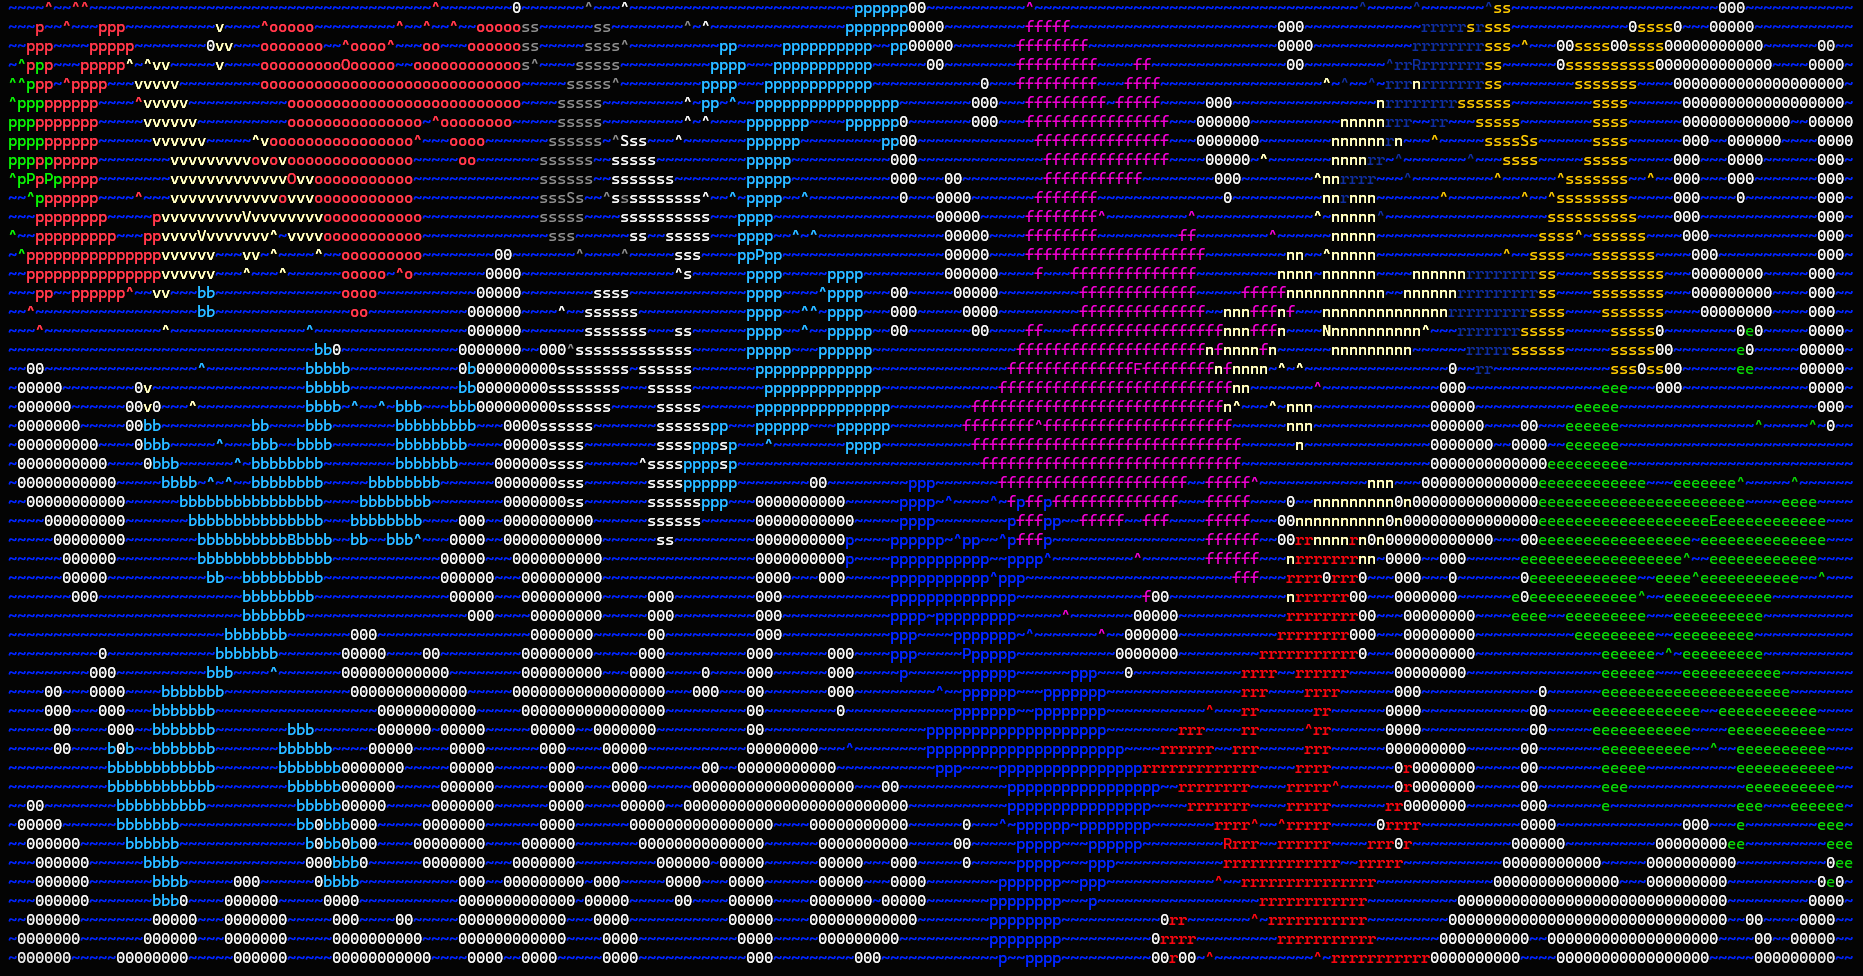
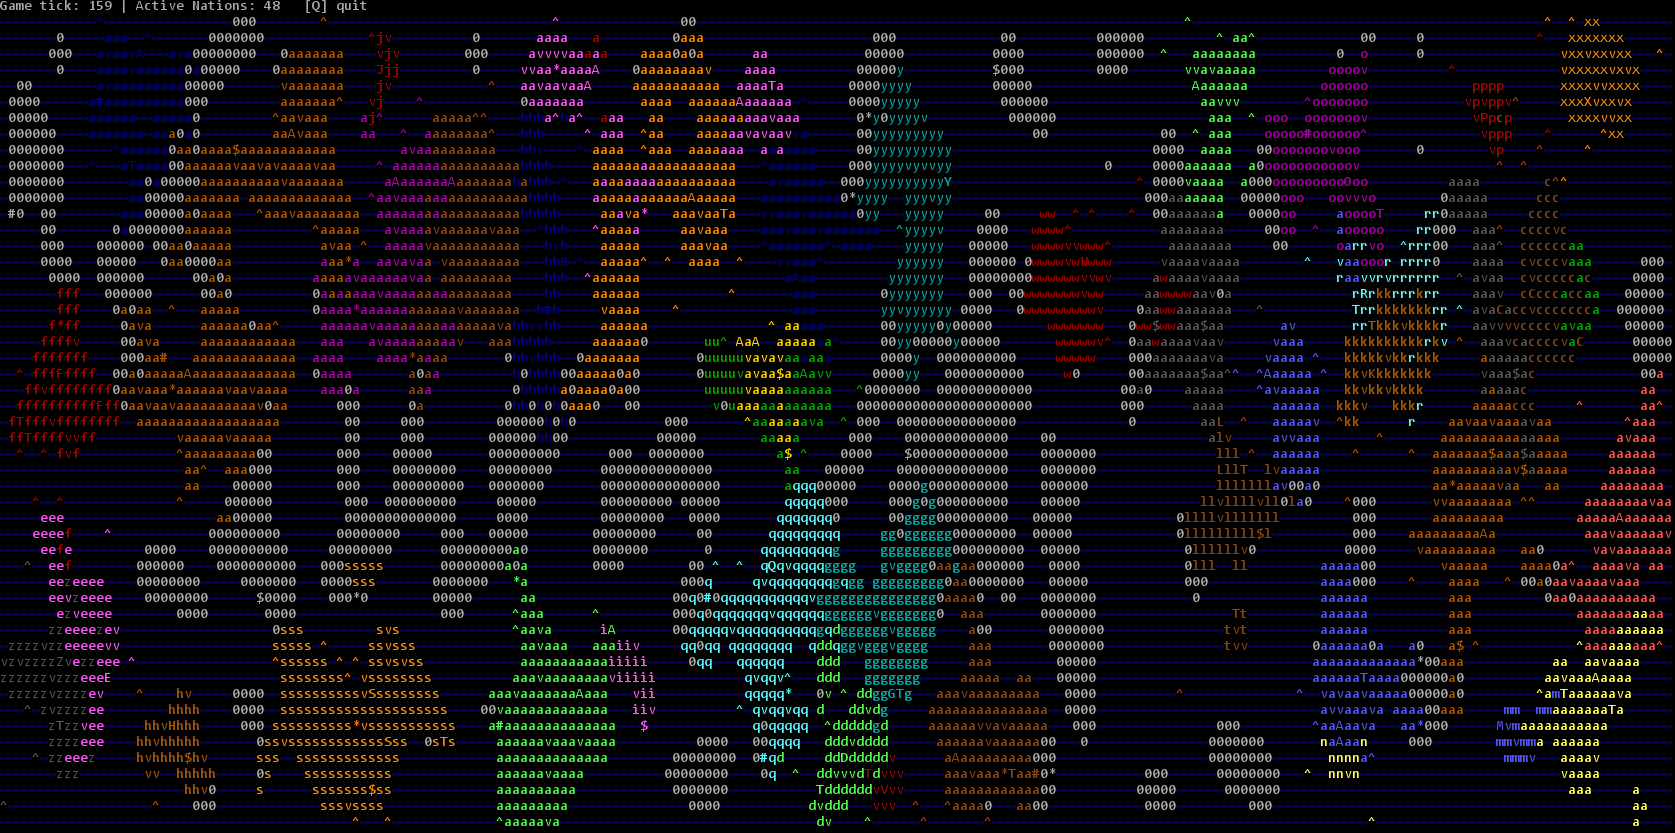
docs: update README for Lanterna

diff --git a/README.md b/README.md
@@ -1,6 +1,7 @@
 # Age of Cells
 
-An interactive, CLI-based geopolitical world simulation engine written in Java. Age of Cells models emergent historic dynamics on a grid, including territorial expansion, economic resource gathering, and state-driven diplomacy with master-vassal hierarchies and rebellion mechanics.
+An interactive, geopolitical world simulation engine written in Java with **Lanterna**.
+Age of Cells models emergent historic dynamics on a grid, including territorial expansion, economic resource gathering, and state-driven diplomacy with master-vassal hierarchies and rebellion mechanics.
 
 <p align="center">
   <img src="assets/preview.png" alt="Age of Cells Simulation Preview" width="80%">
@@ -15,6 +16,15 @@ An interactive, CLI-based geopolitical world simulation engine written in Java. 
 * **Diplomacy:** Peace, War and temporary Unions. Capital capture can turn nations into vassals.
 * **Vassal System:** Masters collect tribute. Vassals have Liberty Desire and can rebel.
 * **Economy:** Income from land, capitals, ships and resources.
+* **Lanterna TUI:** Smooth terminal rendering with colors and keyboard controls.
+
+---
+
+## Controls
+
+| Key | Action              |
+|-----|---------------------|
+| `Q` | Quit the simulation |
 
 ---
 
@@ -46,35 +56,36 @@ An interactive, CLI-based geopolitical world simulation engine written in Java. 
 AgeOfCells/
 ├── src/
 │   └── main/
-│       └── java/
-│           └── com/
-│               └── aoc/
-│                   ├── Launcher.java
-│                   ├── World.java
-│                   ├── GameLoop.java
-│                   ├── cell/
-│                   │   ├── Cell.java
-│                   │   ├── CellType.java
-│                   │   └── TerrainType.java
-│                   ├── diplomacy/
-│                   │   └── DiplomacyManager.java
-│                   ├── map/
-│                   │   └── MapGenerator.java
-│                   ├── nation/
-│                   │   ├── Nation.java
-│                   │   ├── NationType.java
-│                   │   └── SituationState.java
-│                   ├── render/
-│                   │   └── WorldRenderer.java
-│                   ├── config/
-│                   │   └── Config.java
-│                   └── util/
-│                       ├── Color.java
-│                       ├── Element.java
-│                       ├── Screen.java
-│                       ├── Time.java
-│                       ├── Loader.java
-│                       └── Rng.java
+│       ├── java/
+│       │   └── com/
+│       │       └── aoc/
+│       │           ├── Launcher.java
+│       │           ├── World.java
+│       │           ├── GameLoop.java
+│       │           ├── cell/
+│       │           │   ├── Cell.java
+│       │           │   ├── CellType.java
+│       │           │   └── TerrainType.java
+│       │           ├── diplomacy/
+│       │           │   └── DiplomacyManager.java
+│       │           ├── map/
+│       │           │   └── MapGenerator.java
+│       │           ├── nation/
+│       │           │   ├── Nation.java
+│       │           │   ├── NationGenerator.java
+│       │           │   └── SituationState.java
+│       │           ├── render/
+│       │           │   └── WorldRenderer.java
+│       │           ├── config/
+│       │           │   └── Config.java
+│       │           └── util/
+│       │               ├── Color.java
+│       │               ├── Element.java
+│       │               ├── Time.java
+│       │               ├── Loader.java
+│       │               └── Rng.java
+│       └── resources/
+│           └── config.yaml
 ├── assets/
 │   └── preview.png
 ├── build.gradle
@@ -85,6 +96,20 @@ AgeOfCells/
 ├── LICENSE
 └── README.md
 
+```
+
+---
+
+## Configuration
+
+Edit `src/main/resources/config.yaml`:
+
+```yaml
+width: 209
+height: 51
+smooth: 4
+tickDelayMs: 50
+nations: 50
 ```
 
 ---
